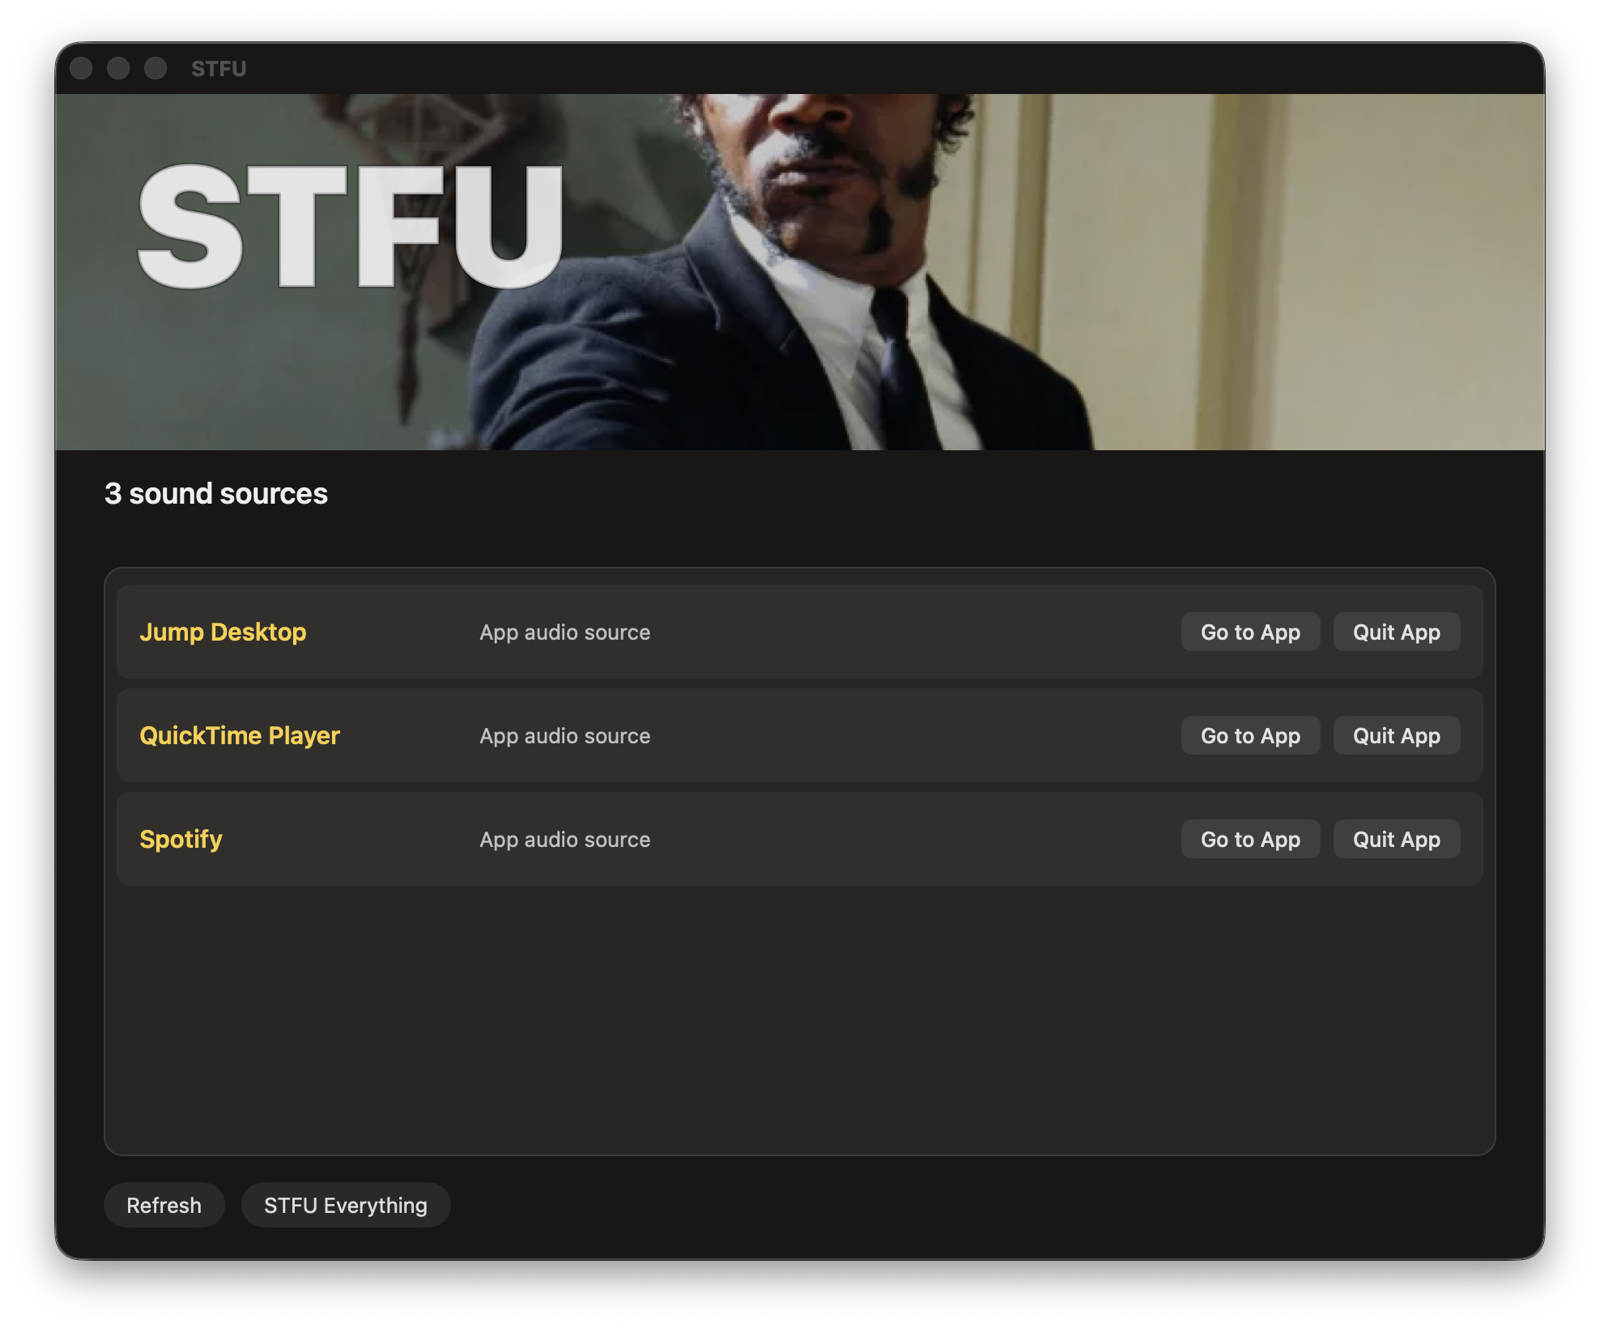
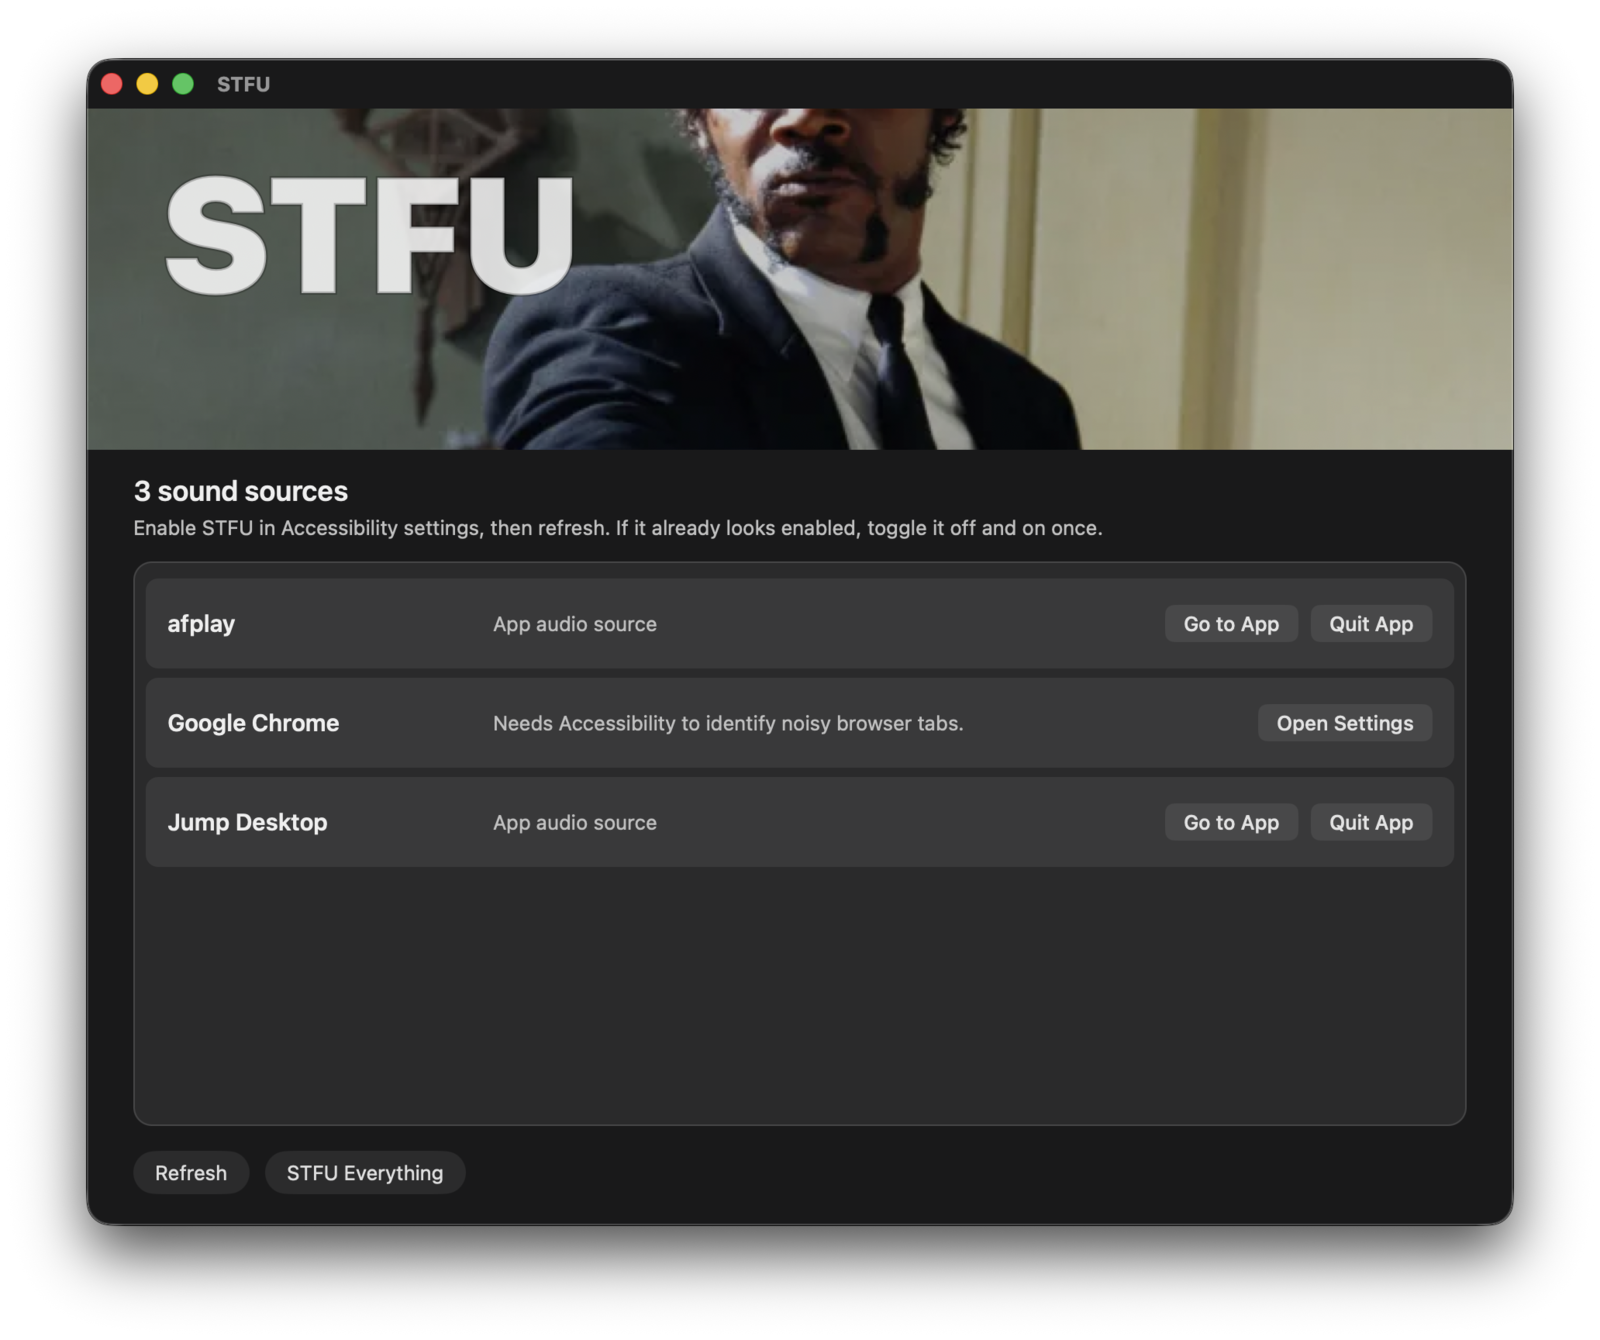
Polish app visuals and social card

diff --git a/Sources/STFULib/MenuBarUI.swift b/Sources/STFULib/MenuBarUI.swift
@@ -128,7 +128,7 @@ final class STFUMenuBarController: NSObject, NSPopoverDelegate {
         let image = NSImage(systemSymbolName: model.statusSystemImage, accessibilityDescription: model.primaryLine)
         image?.isTemplate = true
         button.image = image?.withSymbolConfiguration(configuration)
-        button.contentTintColor = model.offenders.isEmpty ? stfuSecondaryText() : stfuYellow()
+        button.contentTintColor = model.offenders.isEmpty ? stfuSecondaryText() : stfuPrimaryText()
         button.toolTip = model.primaryLine
     }
 
@@ -372,7 +372,7 @@ struct STFUMenuBarPanel: View {
         HStack(spacing: 10) {
             Image(systemName: model.statusSystemImage)
                 .font(.system(size: 19, weight: .semibold))
-                .foregroundStyle(headerTint)
+                .foregroundStyle(headerIconTint)
                 .frame(width: 28, height: 28)
                 .background(Color(nsColor: stfuPanel()))
                 .clipShape(RoundedRectangle(cornerRadius: 7, style: .continuous))
@@ -382,7 +382,7 @@ struct STFUMenuBarPanel: View {
                     .font(.system(size: 15, weight: .black))
                 Text(model.primaryLine)
                     .font(.system(size: 13, weight: .semibold))
-                    .foregroundStyle(headerTint)
+                    .foregroundStyle(Color(nsColor: stfuSecondaryText()))
             }
 
             Spacer(minLength: 8)
@@ -416,7 +416,7 @@ struct STFUMenuBarPanel: View {
                     title: model.isScanning ? "Listening..." : "All quiet",
                     message: model.isScanning ? "Checking the usual suspects." : "No active sound sources.",
                     systemImage: model.statusSystemImage,
-                    tint: headerTint
+                    tint: headerIconTint
                 )
             } else {
                 ScrollView {
@@ -466,11 +466,11 @@ struct STFUMenuBarPanel: View {
         .controlSize(.small)
     }
 
-    private var headerTint: Color {
+    private var headerIconTint: Color {
         if model.scanError != nil {
             return Color(nsColor: stfuRed())
         }
-        return model.offenders.isEmpty ? Color(nsColor: stfuSecondaryText()) : Color(nsColor: stfuYellow())
+        return model.offenders.isEmpty ? Color(nsColor: stfuSecondaryText()) : Color(nsColor: stfuPrimaryText())
     }
 
     private var sourceListHeight: CGFloat {
@@ -503,11 +503,11 @@ struct STFUMenuBarPanel: View {
             .controlSize(.small)
         }
         .padding(12)
-        .background(Color(nsColor: stfuRowSelected()).opacity(0.65))
+        .background(Color(nsColor: stfuRowSelected()))
         .clipShape(RoundedRectangle(cornerRadius: 10, style: .continuous))
         .overlay(
             RoundedRectangle(cornerRadius: 10, style: .continuous)
-                .stroke(Color(nsColor: stfuYellow()).opacity(0.35), lineWidth: 1)
+                .stroke(Color(nsColor: stfuBorder()), lineWidth: 1)
         )
     }
 
@@ -569,7 +569,7 @@ struct STFUMenuBarRow: View {
             VStack(alignment: .leading, spacing: 3) {
                 Text(offender.name)
                     .font(.system(size: 13, weight: .bold))
-                    .foregroundStyle(Color(nsColor: stfuYellow()))
+                    .foregroundStyle(Color(nsColor: stfuPrimaryText()))
                     .lineLimit(1)
                 Text(offender.detail)
                     .font(.system(size: 12))

diff --git a/Sources/STFULib/STFULib.swift b/Sources/STFULib/STFULib.swift
@@ -1282,35 +1282,35 @@ func runDoctor() {
 }
 
 func stfuYellow() -> NSColor {
-    NSColor(calibratedRed: 0.98, green: 0.78, blue: 0.18, alpha: 1)
+    NSColor(calibratedRed: 0.74, green: 0.60, blue: 0.38, alpha: 1)
 }
 
 func stfuRed() -> NSColor {
-    NSColor(calibratedRed: 0.95, green: 0.22, blue: 0.24, alpha: 1)
+    NSColor(calibratedRed: 0.92, green: 0.28, blue: 0.25, alpha: 1)
 }
 
 func stfuBlack() -> NSColor {
-    NSColor(calibratedRed: 0.055, green: 0.052, blue: 0.049, alpha: 1)
+    NSColor(calibratedRed: 0.055, green: 0.055, blue: 0.058, alpha: 1)
 }
 
 func stfuCanvas() -> NSColor {
-    NSColor(calibratedRed: 0.075, green: 0.072, blue: 0.068, alpha: 1)
+    NSColor(calibratedRed: 0.075, green: 0.075, blue: 0.080, alpha: 1)
 }
 
 func stfuPanel() -> NSColor {
-    NSColor(calibratedRed: 0.115, green: 0.108, blue: 0.102, alpha: 1)
+    NSColor(calibratedRed: 0.125, green: 0.124, blue: 0.128, alpha: 1)
 }
 
 func stfuRow() -> NSColor {
-    NSColor(calibratedRed: 0.145, green: 0.137, blue: 0.128, alpha: 1)
+    NSColor(calibratedRed: 0.170, green: 0.168, blue: 0.174, alpha: 1)
 }
 
 func stfuRowSelected() -> NSColor {
-    NSColor(calibratedRed: 0.28, green: 0.21, blue: 0.11, alpha: 1)
+    NSColor(calibratedRed: 0.205, green: 0.205, blue: 0.218, alpha: 1)
 }
 
 func stfuBorder() -> NSColor {
-    NSColor(calibratedWhite: 1, alpha: 0.10)
+    NSColor(calibratedWhite: 1, alpha: 0.13)
 }
 
 func stfuPrimaryText() -> NSColor {
@@ -1393,7 +1393,7 @@ final class STFUOffenderRowView: NSTableRowView {
         let path = NSBezierPath(roundedRect: rect, xRadius: 8, yRadius: 8)
         stfuRowSelected().setFill()
         path.fill()
-        stfuYellow().withAlphaComponent(0.45).setStroke()
+        stfuBorder().setStroke()
         path.lineWidth = 1
         path.stroke()
     }
@@ -2041,7 +2041,7 @@ final class SetupAppDelegate: NSObject, NSApplicationDelegate, NSTableViewDataSo
         if identifier.rawValue == "offender" {
             text = offender.name
             font = .systemFont(ofSize: 15, weight: .semibold)
-            color = stfuYellow()
+            color = stfuPrimaryText()
         } else {
             text = offender.detail
             font = .systemFont(ofSize: 13, weight: .regular)

diff --git a/README.md b/README.md
@@ -1,5 +1,7 @@
 # STFU
 
+![STFU social card: Mystery sound? Find the noisy tab or app.](assets/social-card.png)
+
 Find the Mac app or browser tab making sound. Close that tab, quit that app, or silence everything.
 
 ![STFU showing multiple sound sources](assets/screenshots/app-multiple-sources.png)
